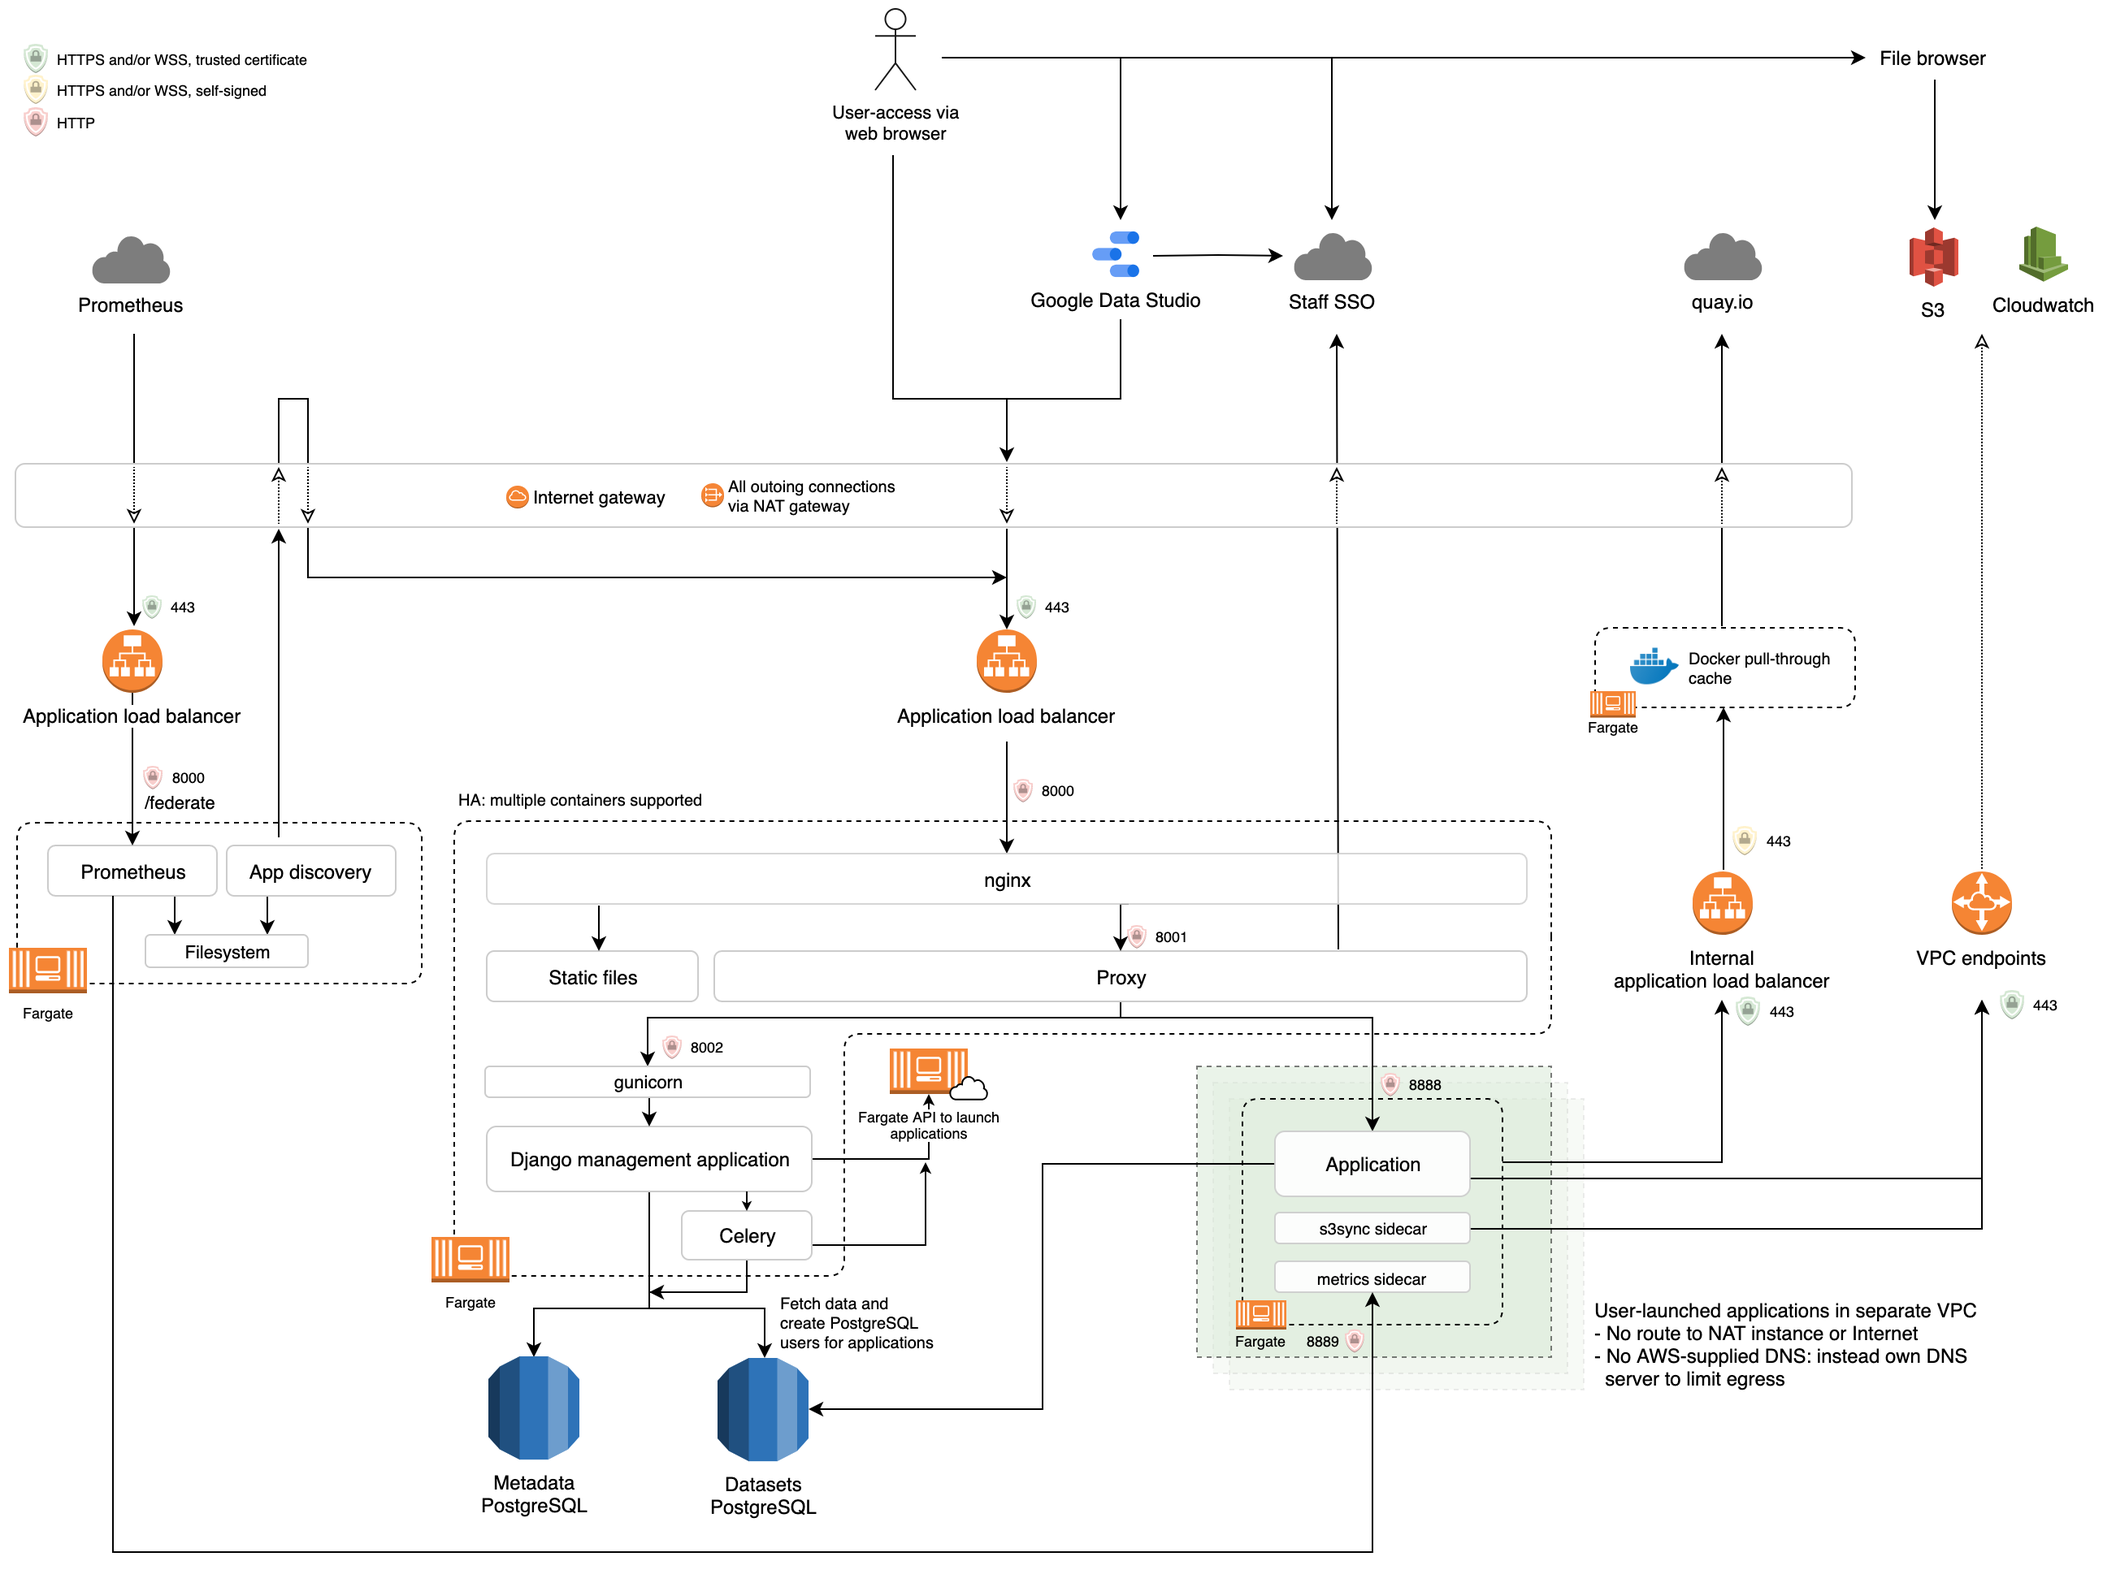
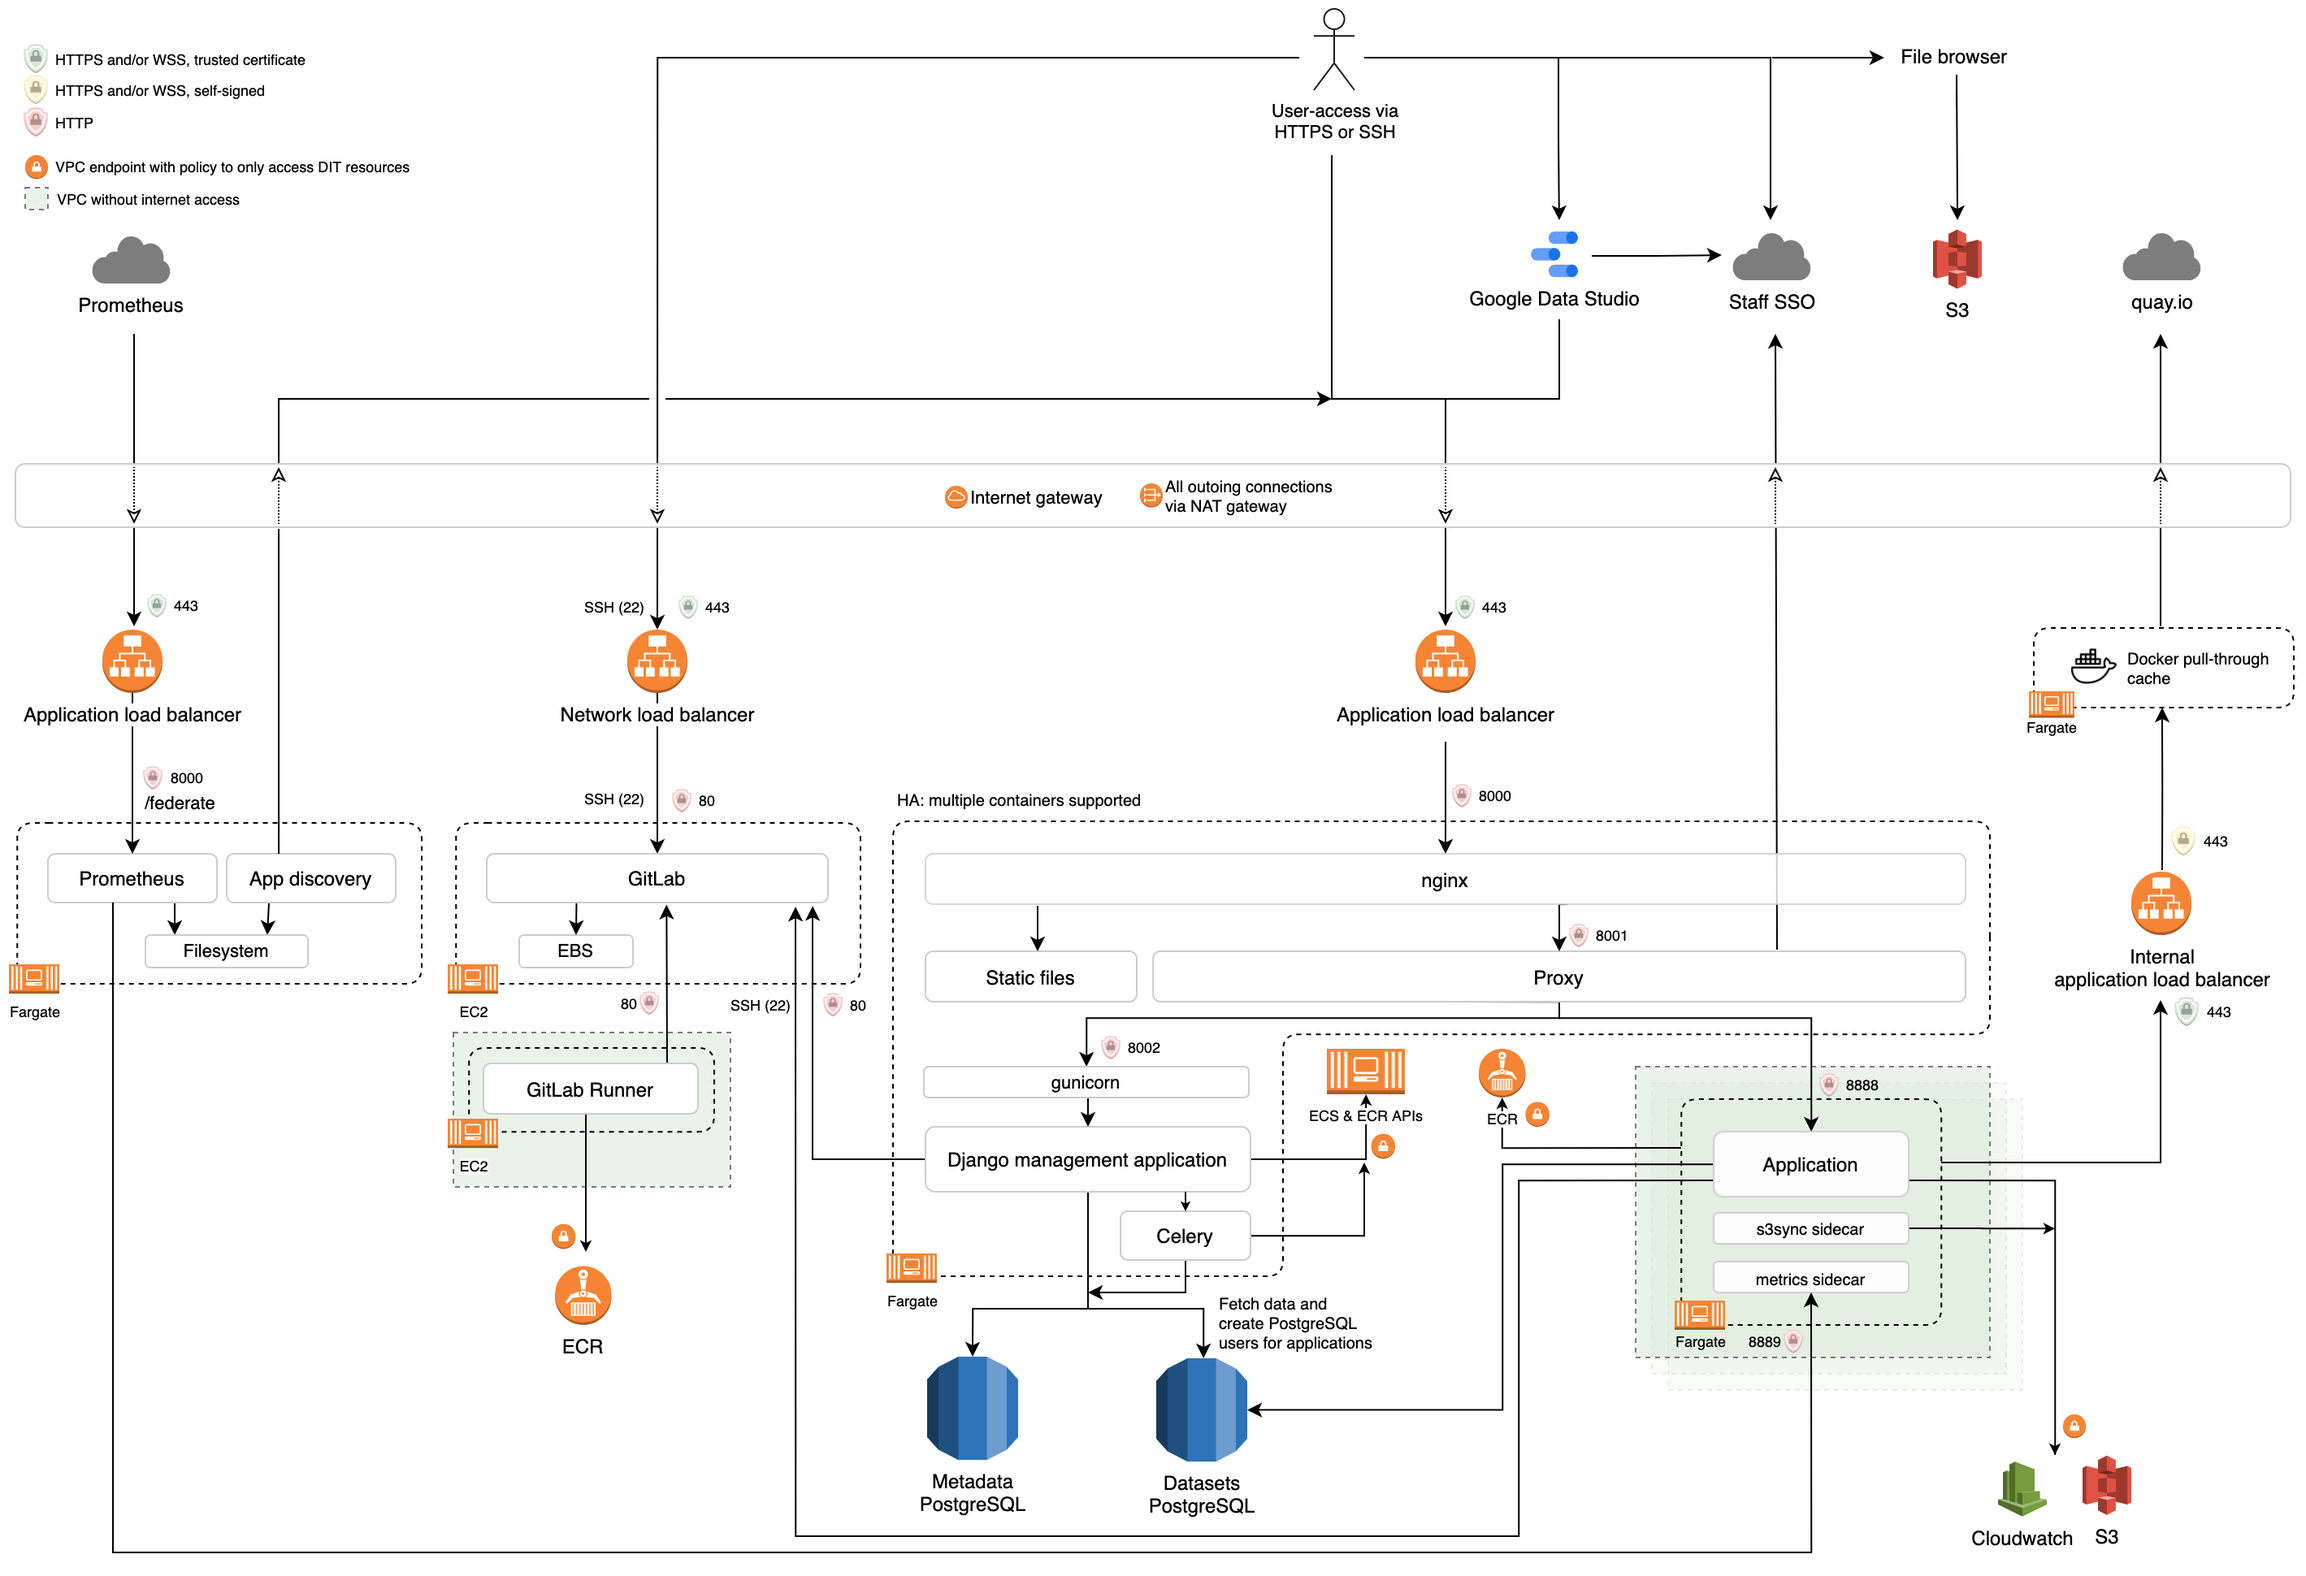
(docs) Update the architecture diagram to include GitLab

diff --git a/CHANGELOG.md b/CHANGELOG.md
@@ -4,6 +4,12 @@ All notable changes to this project will be documented in this file.
 
 The format is based on [Keep a Changelog](https://keepachangelog.com/en/1.0.0/).
 
+## 2020-03-22
+
+### Changed
+
+- Update the architecture to include GitLab
+
 ## 2020-03-20
 
 ### Changed
